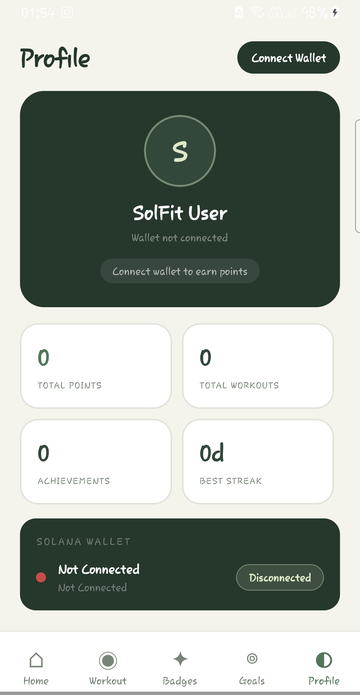
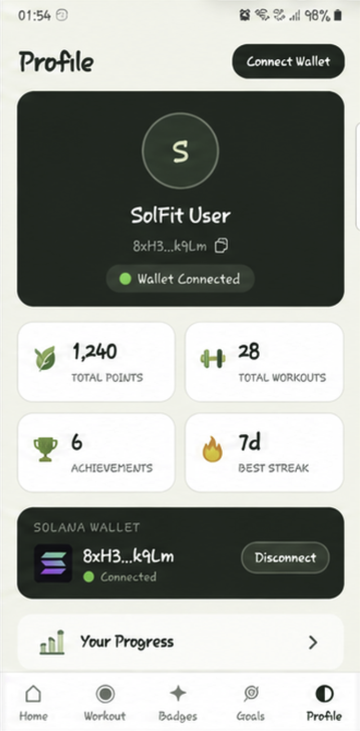
Update README and refresh all screenshots
- README.md — minor update
- docs/screenshots/ — all 6 screenshots replaced with higher-res versions
  (badges, goals, home, profile, splash, workout)

diff --git a/README.md b/README.md
@@ -35,7 +35,7 @@ On-device pose detection counts every rep. Your wallet is your account. Streaks,
 <img src="docs/screenshots/goals.png" width="15%" alt="Goals" />
 <img src="docs/screenshots/profile.png" width="15%" alt="Profile" />
 <br/>
-<sub>Launch · Home · Workout · Badges · Goals · Profile (release build, Natural Motion theme)</sub>
+<sub>Launch · Home · Workout · Badges · Goals · Profile (design preview with sample data, Natural Motion theme)</sub>
 </div>
 
 ---
